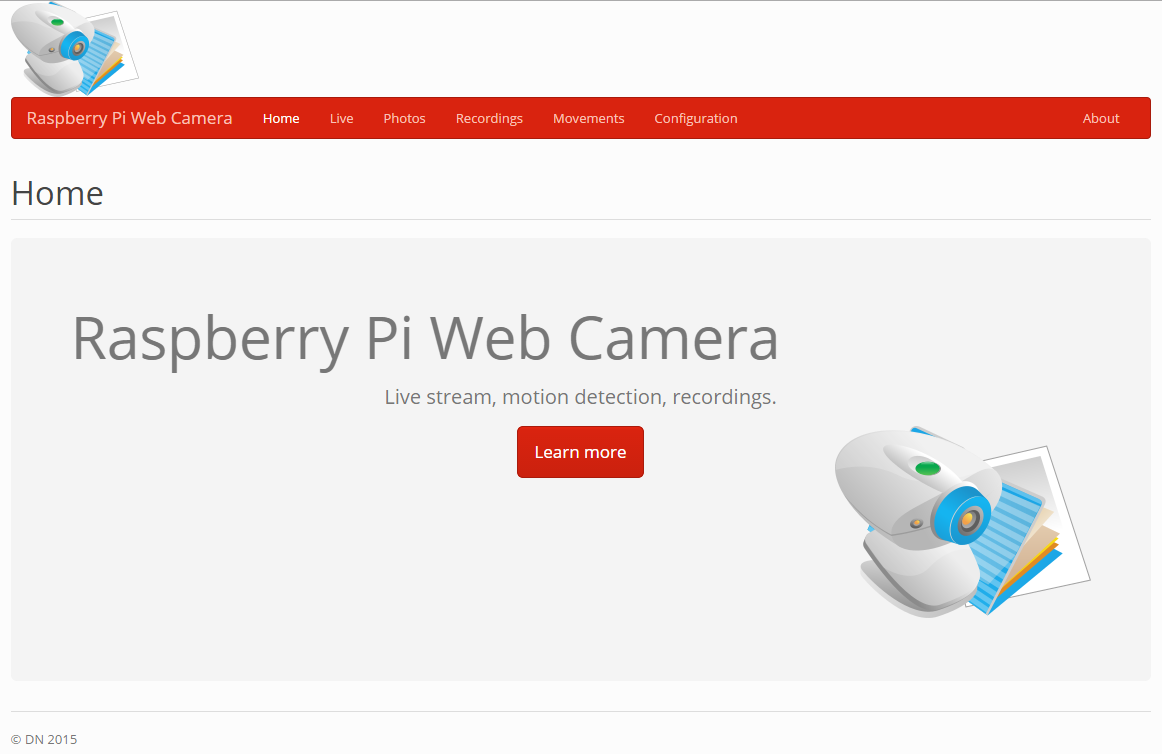
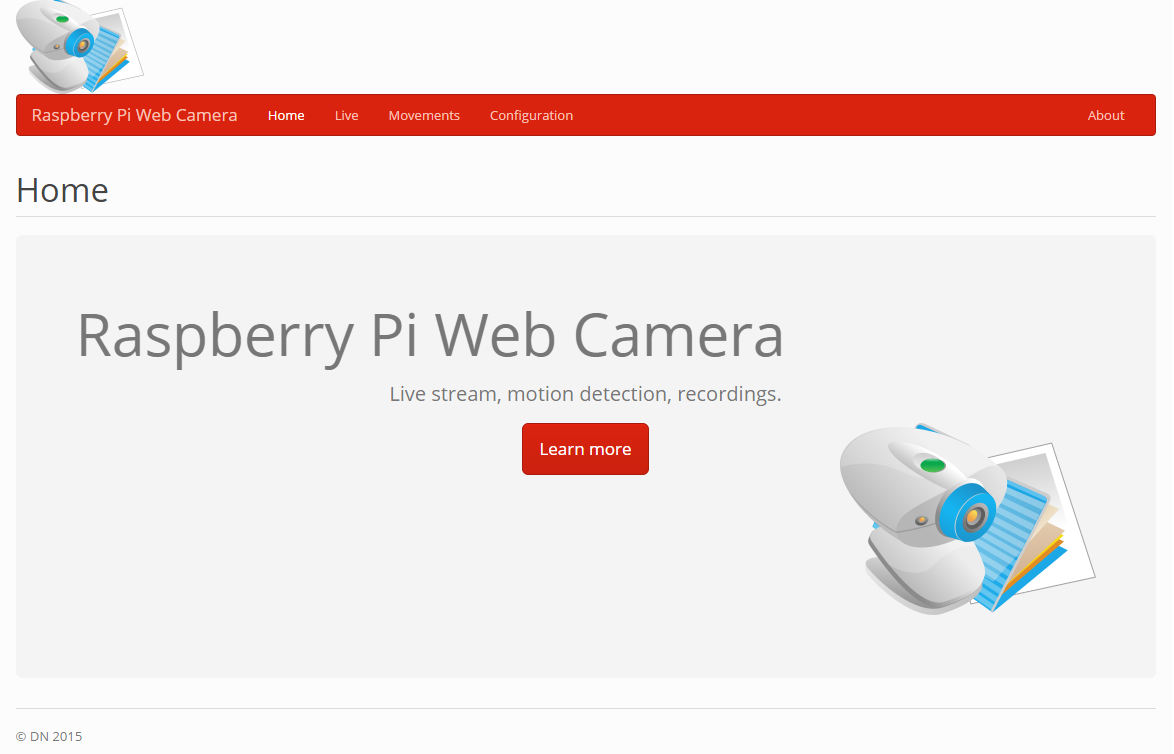
Adding new screenshots

diff --git a/README.md b/README.md
@@ -8,7 +8,6 @@ Raspberry Pi Web Camera is web camera build on Raspberry Pi 2 which uses Raspber
 
 ## Screenshots and Photos
 - [Home page]
-- [Photos]
 - [Movements list]
 - [Webcam device]
 
@@ -50,6 +49,12 @@ $ sudo ./webcam.sh stop
 ```
 
 ## Change log
+- 1.3.0
+    - Adding exception handling for camera and recordings
+    - Recordings and photos pages merged together as movements page
+    - Fixing bug in storage. Occasional OSError
+    - Adding auto refresh for Live stream page
+    
 - 1.2.0
     - Change to motion detection algorithm
     - Adding images of camera device
@@ -71,19 +76,11 @@ $ sudo ./webcam.sh stop
 Anyone is welcome to contribute to this project :).
 Just contact me on Github.
 
-## Todo
-
- - Recordings on demand
- - Photos on demand
- - Time lapse videos
- - Recording and photo schedule
-
 ## License
 
 GNU GENERAL PUBLIC LICENSE
 
 [Home page]:https://raw.githubusercontent.com/0x1001/Webcam/master/screenshots/home.png
-[Photos]:https://raw.githubusercontent.com/0x1001/Webcam/master/screenshots/photos.png
 [Movements list]:https://raw.githubusercontent.com/0x1001/Webcam/master/screenshots/movements.png
 [Webcam device]:https://raw.githubusercontent.com/0x1001/Webcam/master/screenshots/IMG_20150426_144456.jpg
 
